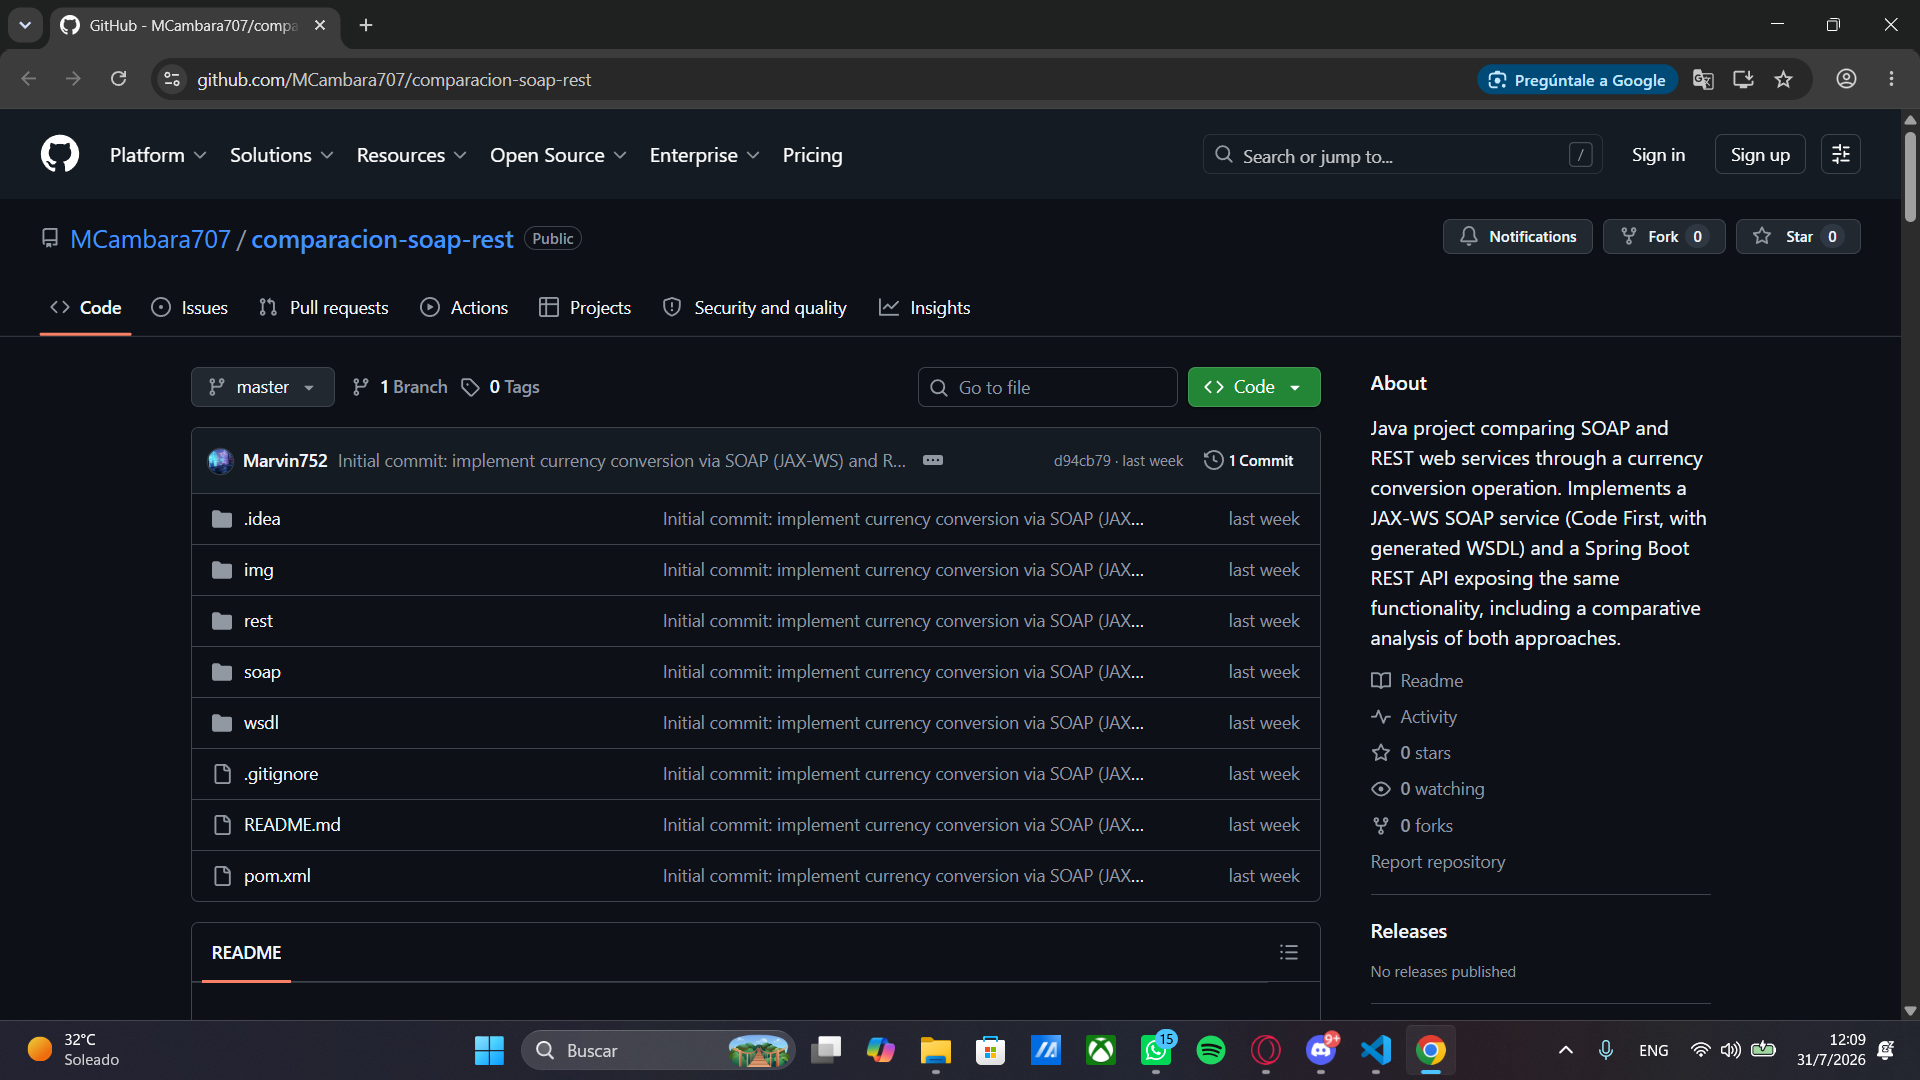
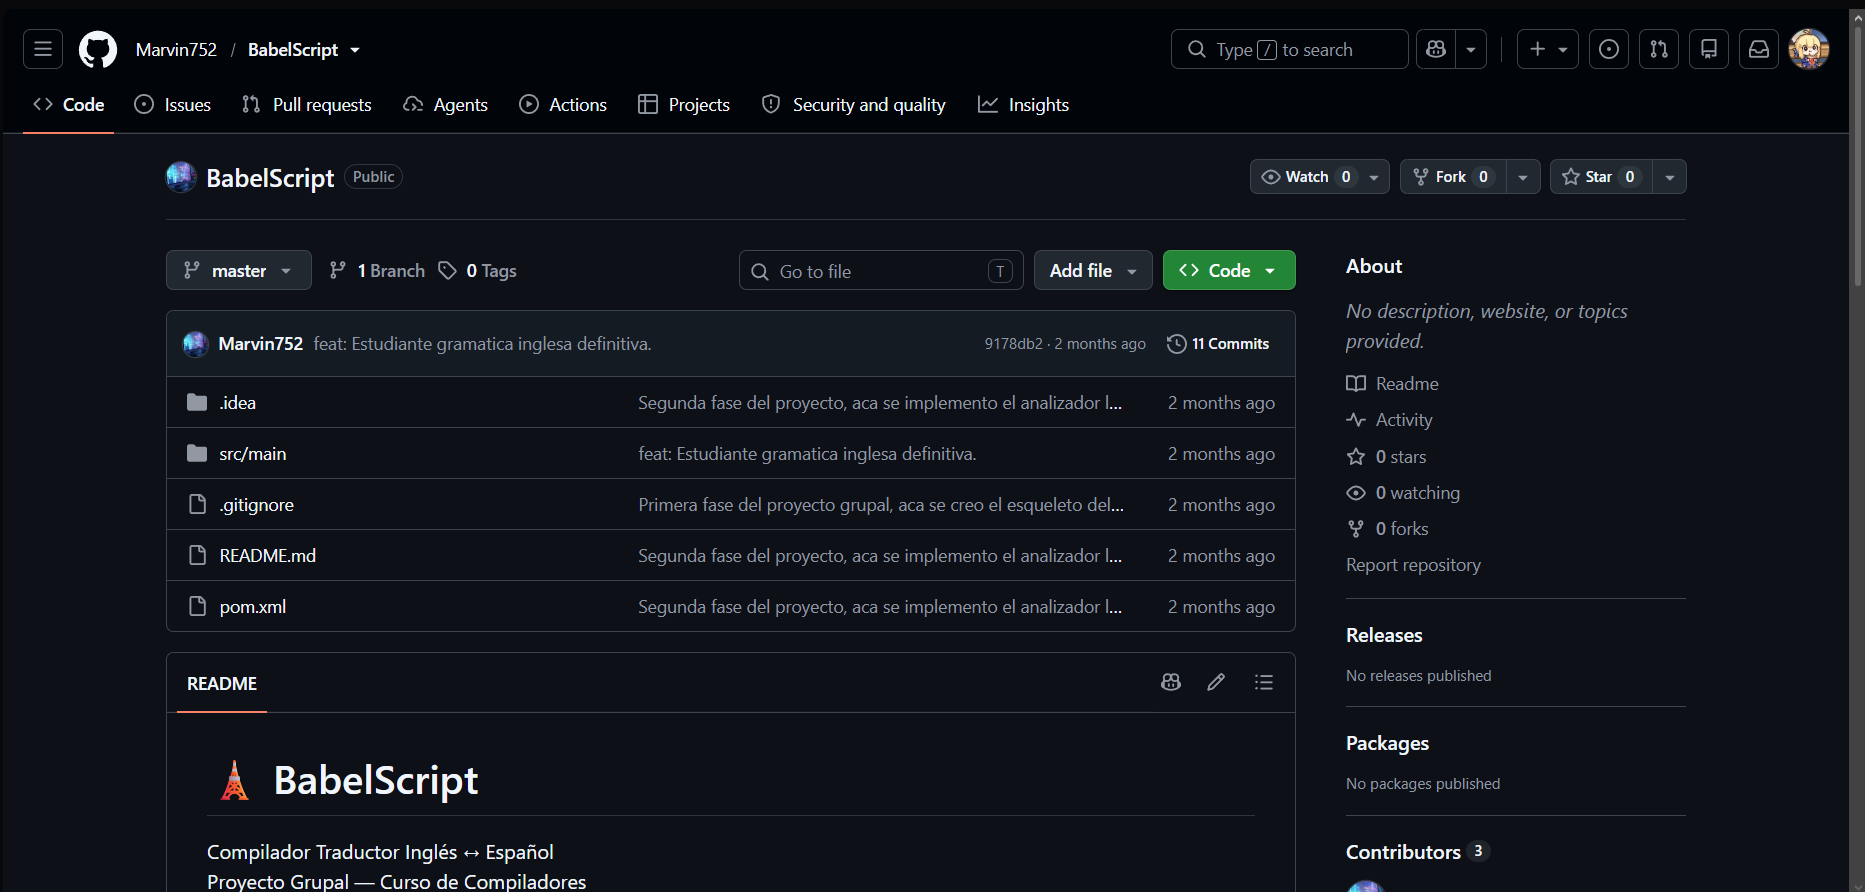
feat: update cards with projects and hobbies

diff --git a/index.html b/index.html
@@ -29,7 +29,7 @@
                         <ul class="navbar-nav ms-auto">
                             <li class="nav-item"><a class="nav-link" href="#biografia">Biografía</a></li>
                             <li class="nav-item"><a class="nav-link" href="#habilidades">Habilidades e Intereses</a></li>
-                            <li class="nav-item"><a class="nav-link" href="#proyectos">Proyectos</a></li>
+                            <li class="nav-item"><a class="nav-link" href="#proyectos">Proyectos y Hobbies</a></li>
                             <li class="nav-item"><a class="nav-link" href="#vision">Visión</a></li>  
                         </ul>
                     </div>
@@ -94,27 +94,27 @@
             </section>
 
             <section id="proyectos" class="container py-5">
-                <h2>Proyectos</h2>
+                <h2>Proyectos y Hobbies</h2>
                 <div class="row g-4">
 
                     <div class="col-md-4">
                         <div class="card h-100">
                             <img src="img/proyecto1.png" class="card-img-top" alt="Captura del proyecto SOAP vs REST">
                             <div class="card-body">
-                                <h5 class="card-title">Comparación SOAP vs REST</h5>
-                                <p class="card-text">Proyecto en Java que compara implementaciones SOAP (JAX-WS) y REST (Spring Boot) de un conversor de moneda.</p>
-                                <a href="https://github.com/MCambara707/comparacion-soap-rest" class="btn btn-primary" target="_blank">Ver en GitHub</a>
+                                <h5 class="card-title">BabelScript</h5>
+                                <p class="card-text">Compilador traductor inglés-español desarrollado en equipo para el curso de Compiladores. 
+                                    Construido con Java, ANTLR4 y Spring Boot, incluyendo análisis léxico, sintáctico y semántico.</p>
+                                <a href="https://github.com/Marvin752/BabelScript" class="btn btn-primary" target="_blank">Ver en GitHub</a>
                             </div>
                         </div>
                     </div>
 
                     <div class="col-md-4">
                         <div class="card h-100">
-                            <img src="img/proyecto2.png" class="card-img-top" alt="Captura del proyecto integrador HTML y CSS">
+                            <img src="img/hobby.png" class="card-img-top" alt="Videojuegos como pasatiempo">
                             <div class="card-body">
-                                <h5 class="card-title">Proyecto Integrador HTML/CSS</h5>
-                                <p class="card-text">Sitio web responsive aplicando Grid, Flexbox, variables CSS, metodología BEM y diseño mobile-first.</p>
-                                <a href="https://github.com/MCambara707/proyecto-integrador-html" class="btn btn-primary" target="_blank">Ver en GitHub</a>
+                                <h5 class="card-title">Videojuegos</h5>
+                                <p class="card-text">En mis tiempos libres disfruto jugar videojuegos, una forma de desconectarme y también de mantenerme cerca de la tecnología desde otro ángulo.</p>
                             </div>
                         </div>
                     </div>
@@ -123,9 +123,9 @@
                         <div class="card h-100">
                             <img src="img/proyecto3.png" class="card-img-top" alt="Captura de este mismo portafolio personal">
                             <div class="card-body">
-                                <h5 class="card-title">Portafolio Personal</h5>
-                                <p class="card-text">Este mismo sitio: página de presentación personal construida con HTML5 semántico y Bootstrap 5.</p>
-                                <a href="#" class="btn btn-primary">Estás aquí</a>
+                                <h5 class="card-title">DevSolutions</h5>
+                                <p class="card-text">Aplicación de escritorio en C# (Windows Forms) para gestión de inventario, estructurada en capas: acceso a datos, modelos y utilidades..</p>
+                                <a href="https://github.com/Marvin752/DevSolutions" class="btn btn-primary" target="_blank">Ver en GitHub</a>
                             </div>
                         </div>
                     </div>
